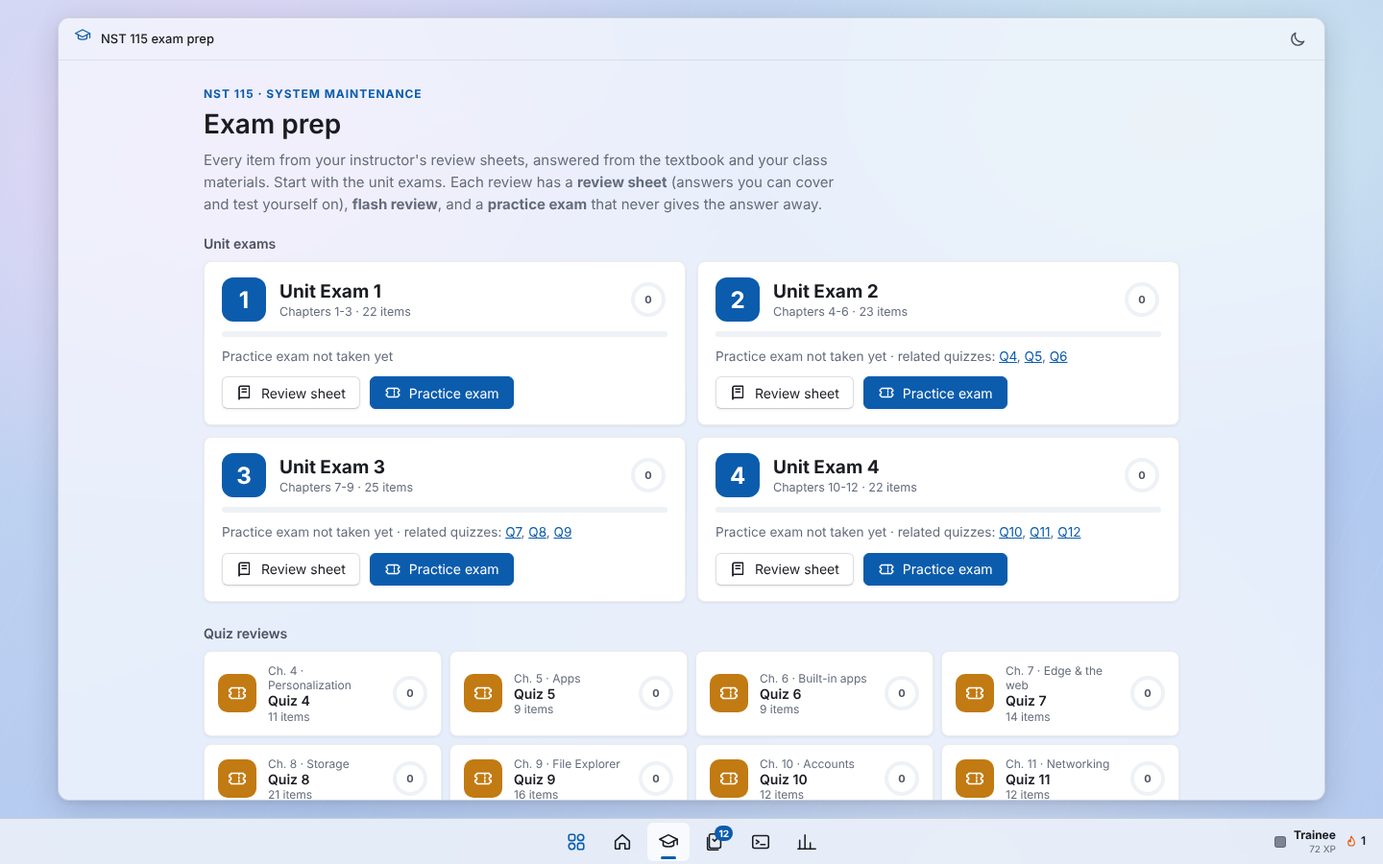
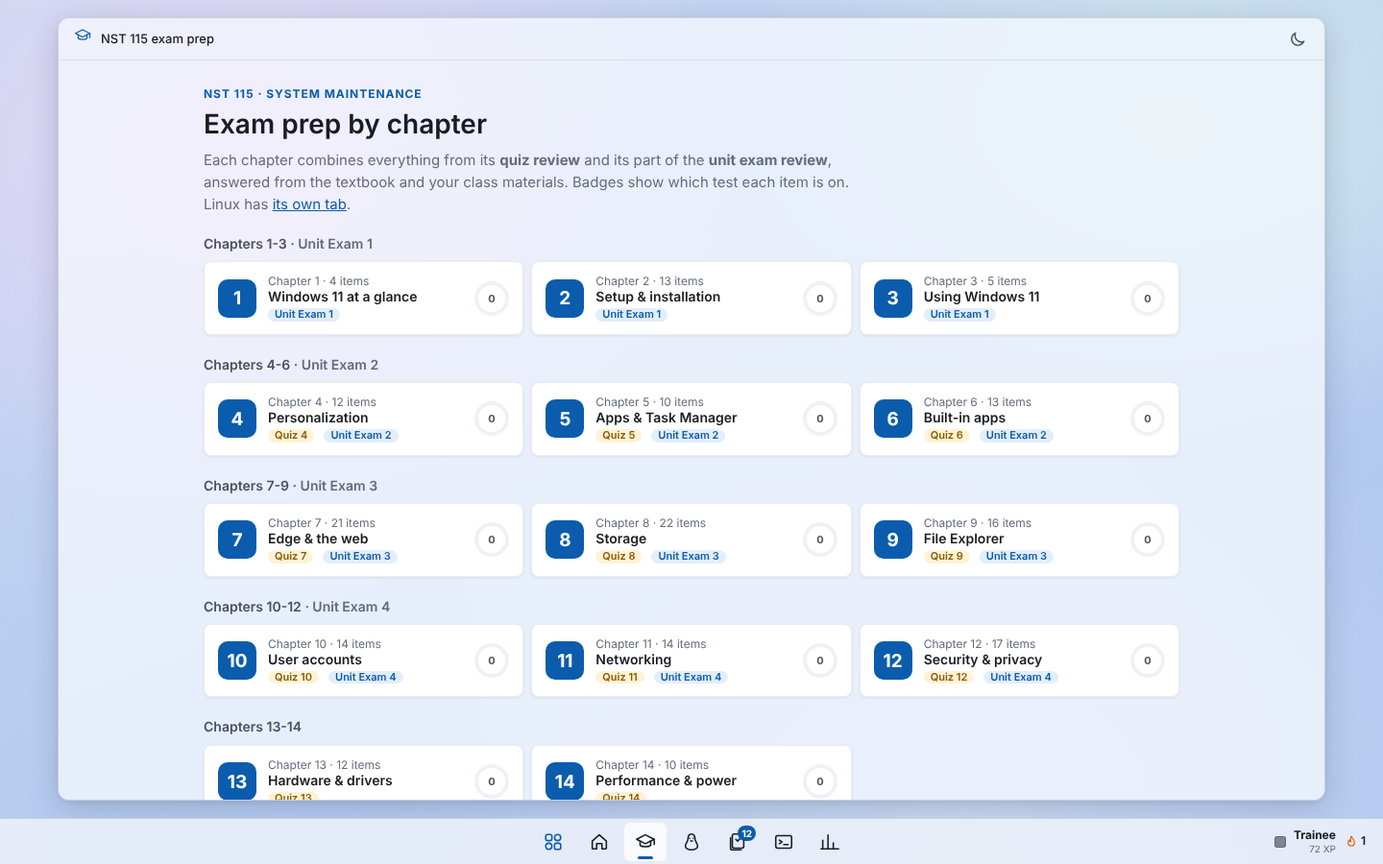
Organize exam prep by chapter; give Linux its own tab
- Exam prep now has one review per chapter (1-14) combining the quiz review
  and that chapter's unit exam items, with Quiz/Unit Exam badges on each item
- Linux unit moved to a separate taskbar tab with its lessons, terminal drills
  and permissions trainer
- Tests check every unit exam item lands in a chapter and Linux stays separate

diff --git a/js/app.js b/js/app.js
@@ -97,7 +97,7 @@
   });
   matchMedia('(prefers-color-scheme: dark)').addEventListener('change', applyTheme);
   $('#startbtn').innerHTML = icon('start');
-  [['home', 'home'], ['course', 'course'], ['review', 'review'], ['rush', 'rush'], ['progress', 'progress']].forEach(([k, ic]) => { const a = $(`[data-nav="${k}"]`); a.insertAdjacentHTML('afterbegin', icon(ic)); a.title = a.getAttribute('aria-label'); });
+  [['home', 'home'], ['course', 'course'], ['linux', 'penguin'], ['review', 'review'], ['rush', 'rush'], ['progress', 'progress']].forEach(([k, ic]) => { const a = $(`[data-nav="${k}"]`); a.insertAdjacentHTML('afterbegin', icon(ic)); a.title = a.getAttribute('aria-label'); });
   $('#startbtn').title = 'Start: all chapters (Ctrl+K)';
 
   function setTitle(text, ic) { $('#wintitle').textContent = text; $('#tbicon').innerHTML = icon(ic || 'logo'); document.title = text === 'Tier One' ? 'Tier One: Windows 11 help desk training' : `${text} · Tier One`; }
@@ -115,7 +115,7 @@
         if ((c.title + ' ' + c.short + ' ' + c.blurb).toLowerCase().includes(q)) hits.push({ c, label: `${c.num === 'A' || c.num === 'B' || c.num === 'C' ? 'Appendix' : 'Chapter'} ${c.num}: ${c.title}`, href: `#/c/${c.id}` });
         c.learn.forEach((s, i) => { if ((s.t + ' ' + s.p.join(' ') + ' ' + (s.key || []).join(' ')).toLowerCase().includes(q)) hits.push({ c, label: s.t, sub: `${c.num} · ${c.short}`, href: `#/c/${c.id}/learn/${i}` }); });
       });
-      COURSE.decks.forEach(d => d.terms.forEach(t => { const x = COURSE.terms[t]; if (!hits.some(h => h.href.endsWith('/' + t)) && (x.t + ' ' + x.d).toLowerCase().includes(q)) hits.push({ c: { part: 'c', icon: 'course' }, label: x.t, sub: `NST 115 · ${d.title}`, href: `#/course/${d.id}/sheet/${t}` }); }));
+      COURSE.decks.forEach(d => d.terms.forEach(t => { const x = COURSE.terms[t]; if (!hits.some(h => h.href.endsWith('/' + t)) && (x.t + ' ' + x.d).toLowerCase().includes(q)) hits.push({ c: { part: 'c', icon: d.kind === 'linux' ? 'penguin' : 'course' }, label: x.t, sub: d.kind === 'linux' ? `Linux · ${d.title}` : `NST 115 · Chapter ${d.num}: ${d.sub}`, href: `${d.kind === 'linux' ? '#/linux' : '#/course'}/${d.id}/sheet/${t}` }); }));
       body = `<h2 class="st-h">Best matches</h2>${hits.length ? `<ul class="st-res">${hits.slice(0, 12).map(h => `<li><a href="${h.href}"><span class="st-ic sm part${h.c.part}">${icon(h.c.icon)}</span><span><b>${esc(h.label)}</b>${h.sub ? `<small>${esc(h.sub)}</small>` : ''}</span></a></li>`).join('')}</ul>` : '<p class="muted st-none">No topics match. Try a tool name like "BitLocker" or "ipconfig".</p>'}`;
     }
     return body;
@@ -148,9 +148,10 @@
     else if (parts[0] === 'rush') rushView();
     else if (parts[0] === 'progress') progressView();
     else if (parts[0] === 'course') courseView(parts[1], parts[2], parts[3]);
+    else if (parts[0] === 'linux') parts[1] ? courseView(parts[1], parts[2], parts[3]) : linuxHome();
     else homeView();
     renderTray();
-    if (!((parts[0] === 'c' || parts[0] === 'course') && parts[3] !== undefined)) app.scrollTop = 0;
+    if (!(['c', 'course', 'linux'].includes(parts[0]) && parts[3] !== undefined)) app.scrollTop = 0;
     app.focus({ preventScroll: true });
   }
   window.addEventListener('hashchange', route);
@@ -186,7 +187,7 @@
           <div class="statrow"><span><b>${S.xp.toLocaleString()}</b><small>XP</small></span><span><b>${streakNow()}</b><small>day streak</small></span><span><b>${r.n}/${CH.length}</b><small>certified</small></span></div>
         </div>
       </section>
-      <a class="coursebanner" href="#/course">${icon('course')}<span><b>NST 115 exam prep</b><small>Unit exam and quiz reviews, Linux unit, terminal and permissions drills</small></span><span class="cb-go">Open ${icon('arrow')}</span></a>
+      <a class="coursebanner" href="#/course">${icon('course')}<span><b>NST 115 exam prep</b><small>Quiz and unit exam reviews combined, chapter by chapter</small></span><span class="cb-go">Open ${icon('arrow')}</span></a>
       <section class="today" aria-label="Today">
         <a class="todo" href="#/review/cards">${icon('cards')}<span><b>${due ? plural(due, 'card') + ' due' : 'No cards due'}</b><small>${due ? 'Spaced review keeps it in long-term memory' : 'Cards join your review once you start a lesson'}</small></span></a>
         <a class="todo" href="#/review/reopened">${icon('ticket')}<span><b>${missed ? plural(missed, 'reopened ticket') : 'No reopened tickets'}</b><small>Anything you miss reopens here until you solve it first try</small></span></a>
@@ -549,6 +550,9 @@
   const deckPct = d => Math.round(d.terms.filter(mastered).length / d.terms.length * 100);
   const srcTag = s => s === 'class' ? 'Class materials' : s === 'gen' ? 'General knowledge: check your notes' : `Book ch. ${s.slice(1)}`;
   const deckById = id => CO.decks.find(d => d.id === id);
+  const base = d => d.kind === 'linux' ? '#/linux' : '#/course';
+  const dIcon = d => d.kind === 'linux' ? 'penguin' : 'course';
+  const onChips = id => (CO.on[id] || []).map(l => `<span class="onchip ${/Unit/.test(l) ? 'unit' : ''}">${esc(l)}</span>`).join('');
   const DMODES = [['sheet', 'Review sheet', 'learn'], ['flash', 'Flash review', 'cards'], ['exam', 'Practice exam', 'ticket']];
   function courseView(id, mode, arg) {
     if (id === 'terminal') return terminalView();
@@ -556,43 +560,47 @@
     const d = deckById(id);
     if (!d) return courseHome();
     if (!DMODES.some(m => m[0] === mode)) mode = 'sheet';
-    setTitle(`NST 115 · ${d.title}`, 'course');
+    setTitle(`${d.kind === 'linux' ? 'Linux' : 'NST 115'} · ${d.title}`, dIcon(d));
     const best = cS().best[d.id];
     app.innerHTML = `<div class="chap">
       <nav class="cnav" aria-label="Review sections">
-        <div class="cnav-head"><span class="cnav-ic ${d.kind}">${icon(d.kind === 'linux' ? 'penguin' : d.kind === 'unit' ? 'cert' : 'ticket')}</span><div><small>${d.kind === 'unit' ? 'Unit exam review' : d.kind === 'quiz' ? 'Quiz review' : 'Linux unit'}</small><b>${esc(d.title)}: ${esc(d.sub)}</b></div></div>
-        <ul class="modes">${DMODES.map(m => `<li><a href="#/course/${d.id}/${m[0]}" class="${m[0] === mode ? 'on' : ''}" ${m[0] === mode ? 'aria-current="page"' : ''}>${icon(m[2])}<span>${m[1]}</span><em>${m[0] === 'sheet' ? `${deckPct(d)}%` : m[0] === 'exam' && best !== undefined ? `best ${best}%` : ''}</em></a></li>`).join('')}
-          ${d.perms ? `<li><a href="#/course/perms">${icon('lock')}<span>Permissions trainer</span></a></li>` : ''}${d.kind === 'linux' ? `<li><a href="#/course/terminal">${icon('term')}<span>Terminal drills</span></a></li>` : ''}</ul>
-        ${mode === 'sheet' ? `<ol class="secs">${d.terms.map(t => `<li><a href="#/course/${d.id}/sheet/${t}" class="${mastered(t) ? 'done' : ''}">${esc(CO.terms[t].t)}</a></li>`).join('')}</ol>` : ''}
-        <div class="cnav-foot"><a href="#/course">${icon('back')}All reviews</a></div>
+        <div class="cnav-head"><span class="cnav-ic ${d.kind}">${d.kind === 'chapter' ? `<span class="cnum">${d.num}</span>` : icon('penguin')}</span><div><small>${d.kind === 'chapter' ? esc((d.tests || []).join(' + ')) : 'Linux unit'}</small><b>${esc(d.kind === 'chapter' ? d.sub : `${d.title}: ${d.sub}`)}</b></div></div>
+        <ul class="modes">${DMODES.map(m => `<li><a href="${base(d)}/${d.id}/${m[0]}" class="${m[0] === mode ? 'on' : ''}" ${m[0] === mode ? 'aria-current="page"' : ''}>${icon(m[2])}<span>${m[1]}</span><em>${m[0] === 'sheet' ? `${deckPct(d)}%` : m[0] === 'exam' && best !== undefined ? `best ${best}%` : ''}</em></a></li>`).join('')}
+          ${d.perms ? `<li><a href="#/linux/perms">${icon('lock')}<span>Permissions trainer</span></a></li>` : ''}${d.kind === 'linux' ? `<li><a href="#/linux/terminal">${icon('term')}<span>Terminal drills</span></a></li>` : ''}</ul>
+        ${mode === 'sheet' ? `<ol class="secs">${d.terms.map(t => `<li><a href="${base(d)}/${d.id}/sheet/${t}" class="${mastered(t) ? 'done' : ''}">${esc(CO.terms[t].t)}</a></li>`).join('')}</ol>` : ''}
+        <div class="cnav-foot"><a href="${base(d)}">${icon('back')}${d.kind === 'linux' ? 'Linux unit' : 'All chapters'}</a></div>
       </nav><div class="cbody" id="cbody"></div></div>`;
     const body = $('#cbody');
     ({ sheet: sheetMode, flash: flashMode, exam: cExamMode })[mode](d, body, arg);
   }
   function courseHome() {
     setTitle('NST 115 exam prep', 'course');
-    const card = d => { const p = deckPct(d), b = cS().best[d.id]; return `<a class="tile deck ${d.kind}" href="#/course/${d.id}"><span class="tile-ic ${d.kind}">${icon(d.kind === 'linux' ? 'penguin' : d.kind === 'unit' ? 'cert' : 'ticket')}</span><span class="tile-txt"><small>${esc(d.sub)}</small><b>${esc(d.title)}</b><small>${d.terms.length} items${b !== undefined ? ` · exam best ${b}%` : ''}</small></span>${ring(p, `${d.title}: ${p}% of items mastered`)}</a>`; };
-    const units = CO.decks.filter(d => d.kind === 'unit');
+    const units = [1, 2, 3, 4];
     app.innerHTML = `<div class="pad">
-      <div class="mode-head"><p class="eyebrow">NST 115 · System Maintenance</p><h2>Exam prep</h2><p class="muted">Every item from your instructor's review sheets, answered from the textbook and your class materials. Start with the unit exams. Each review has a <b>review sheet</b> (answers you can cover and test yourself on), <b>flash review</b>, and a <b>practice exam</b> that never gives the answer away.</p></div>
-      <h3 class="part-h">Unit exams</h3>
-      <div class="units">${units.map(d => { const p = deckPct(d), b = cS().best[d.id], qs = CO.decks.filter(q => q.kind === 'quiz' && q.unit === d.unit); return `<div class="unitcard card"><div class="uc-top"><span class="uc-num">${d.unit}</span><div><b>${esc(d.title)}</b><small>${esc(d.sub)} · ${d.terms.length} items</small></div>${ring(p, `${p}% mastered`)}</div>
-        <div class="uc-bar"><i style-w="${p}"></i></div>
-        <p class="muted small">${b !== undefined ? `Practice exam best: <b>${b}%</b>` : 'Practice exam not taken yet'}${qs.length ? ` · related quizzes: ${qs.map(q => `<a href="#/course/${q.id}">${esc(q.title.replace('Quiz ', 'Q'))}</a>`).join(', ')}` : ''}</p>
-        <div class="row"><a class="btn" href="#/course/${d.id}/sheet">${icon('learn')}Review sheet</a><a class="btn primary" href="#/course/${d.id}/exam">${icon('ticket')}Practice exam</a></div></div>`; }).join('')}</div>
-      <h3 class="part-h">Quiz reviews</h3><div class="tiles">${CO.decks.filter(d => d.kind === 'quiz').map(card).join('')}</div>
-      <h3 class="part-h">Linux unit</h3><div class="tiles">${CO.decks.filter(d => d.kind === 'linux').map(card).join('')}
-        <a class="tile deck" href="#/course/terminal"><span class="tile-ic linux">${icon('term')}</span><span class="tile-txt"><small>Type real commands</small><b>Terminal drills</b><small>${CO.terminal.length} tasks</small></span></a>
-        <a class="tile deck" href="#/course/perms"><span class="tile-ic linux">${icon('lock')}</span><span class="tile-txt"><small>rwx ⇄ 755</small><b>Permissions trainer</b><small>Endless practice</small></span></a></div>
-      <p class="fine">Answers tagged <b>Book ch.</b> come from <i>Windows 11 Inside Out</i>; <b>Class materials</b> from your slides and handouts; <b>General knowledge</b> items aren't covered in either, so compare them with your notes. Progress is saved in this browser.</p></div>`;
-    $$('.uc-bar i').forEach(i => i.style.width = i.getAttribute('style-w') + '%');
+      <div class="mode-head"><p class="eyebrow">NST 115 · System Maintenance</p><h2>Exam prep by chapter</h2><p class="muted">Each chapter combines everything from its <b>quiz review</b> and its part of the <b>unit exam review</b>, answered from the textbook and your class materials. Badges show which test each item is on. Linux has <a href="#/linux">its own tab</a>.</p></div>
+      ${units.map(u => { const ds = CO.decks.filter(d => d.kind === 'chapter' && d.unit === u); return `<h3 class="part-h">Chapters ${ds[0].num}-${ds[ds.length - 1].num} <span class="muted">· Unit Exam ${u}</span></h3><div class="tiles chtiles">${ds.map(chTile).join('')}</div>`; }).join('')}
+      <h3 class="part-h">Chapters 13-14</h3><div class="tiles chtiles">${CO.decks.filter(d => d.kind === 'chapter' && !d.unit).map(chTile).join('')}</div>
+      <p class="fine">Answers tagged <b>Book ch.</b> come from <i>Windows 11 Inside Out</i>; <b>Class materials</b> from your slides, handouts, the assigned article and video; <b>General knowledge</b> items aren't covered in either, so compare them with your notes. Progress is saved in this browser.</p></div>`;
+  }
+  function chTile(d) {
+    const p = deckPct(d), b = cS().best[d.id];
+    return `<a class="tile deck" href="#/course/${d.id}"><span class="tile-ic chapter"><span class="cnum">${d.num}</span></span><span class="tile-txt"><small>Chapter ${d.num} · ${d.terms.length} items</small><b>${esc(d.sub)}</b><span class="tchips">${(d.tests || []).map(t => `<span class="onchip ${/Unit/.test(t) ? 'unit' : ''}">${esc(t)}</span>`).join('')}</span>${b !== undefined ? `<small>Practice exam best ${b}%</small>` : ''}</span>${ring(p, `${d.sub}: ${p}% of items mastered`)}</a>`;
+  }
+  function linuxHome() {
+    setTitle('Linux unit', 'penguin');
+    const card = d => { const p = deckPct(d); return `<a class="tile deck" href="#/linux/${d.id}"><span class="tile-ic linux">${icon('penguin')}</span><span class="tile-txt"><small>${esc(d.sub)}</small><b>${esc(d.title)}</b><small>${d.terms.length} items${cS().best[d.id] !== undefined ? ` · exam best ${cS().best[d.id]}%` : ''}</small></span>${ring(p, `${d.title}: ${p}% mastered`)}</a>`; };
+    app.innerHTML = `<div class="pad"><div class="mode-head"><p class="eyebrow">NST 115 · Linux</p><h2>Linux unit</h2><p class="muted">The Linux days, the top 25 commands, and hands-on drills. Each set has a review sheet, flash review and practice exam.</p></div>
+      <h3 class="part-h">Lessons</h3><div class="tiles">${CO.decks.filter(d => d.kind === 'linux').map(card).join('')}</div>
+      <h3 class="part-h">Hands-on practice</h3><div class="tiles">
+        <a class="tile deck" href="#/linux/terminal"><span class="tile-ic linux">${icon('term')}</span><span class="tile-txt"><small>Type real commands</small><b>Terminal drills</b><small>${CO.terminal.length} tasks</small></span></a>
+        <a class="tile deck" href="#/linux/perms"><span class="tile-ic linux">${icon('lock')}</span><span class="tile-txt"><small>rwx ⇄ 755</small><b>Permissions trainer</b><small>Endless practice</small></span></a></div></div>`;
   }
   function sheetMode(d, body, arg) {
-    body.innerHTML = `<div class="pad"><div class="mode-head"><h2>${esc(d.title)} review sheet</h2><p class="muted">Items in your instructor's order. Turn on <b>Recall mode</b> to hide the answers, say each one from memory, reveal, then mark it.</p></div>
+    body.innerHTML = `<div class="pad"><div class="mode-head"><h2>${esc(d.kind === 'chapter' ? `Chapter ${d.num}: ${d.sub}` : d.title)}</h2><p class="muted">${d.kind === 'chapter' ? 'Quiz items first, then the rest of the unit exam items for this chapter.' : 'Items in your instructor\'s order.'} Turn on <b>Recall mode</b> to hide the answers, say each one from memory, reveal, then mark it.</p></div>
       ${d.note ? `<div class="think">${icon('bulb')}<p><b>Heads up:</b> ${esc(d.note)}</p></div>` : ''}
       <div class="recall-bar"><label class="switch"><input type="checkbox" id="recall"><span></span>Recall mode</label><small class="muted">${d.terms.filter(mastered).length}/${d.terms.length} marked "Got it"</small></div>
-      ${d.terms.map((id, i) => { const t = CO.terms[id]; return `<article class="sec card item" id="t-${id}" tabindex="-1"><h2><span class="secnum">${i + 1}</span>${esc(t.t)}</h2><div class="ans prose">${paras(t.a)}</div><button type="button" class="reveal btn ghost" data-act="show">${icon('eye')}Show answer</button><div class="sec-foot"><span class="src">${esc(srcTag(t.s))}</span><span class="row"><button class="btn mini ${(cS().m[id] || 0) === 1 ? 'on-bad' : ''}" type="button" data-act="mark" data-id="${id}" data-v="1">Again</button><button class="btn mini ${mastered(id) ? 'on-good' : ''}" type="button" data-act="mark" data-id="${id}" data-v="2">${icon('check')}Got it</button></span></div></article>`; }).join('')}
-      <div class="nextbar"><a class="btn primary" href="#/course/${d.id}/exam">${icon('ticket')}Take the practice exam</a></div></div>`;
+      ${d.terms.map((id, i) => { const t = CO.terms[id]; return `<article class="sec card item" id="t-${id}" tabindex="-1"><h2><span class="secnum">${i + 1}</span>${esc(t.t)}</h2><div class="ans prose">${paras(t.a)}</div><button type="button" class="reveal btn ghost" data-act="show">${icon('eye')}Show answer</button><div class="sec-foot"><span class="src">${onChips(id)}${esc(srcTag(t.s))}</span><span class="row"><button class="btn mini ${(cS().m[id] || 0) === 1 ? 'on-bad' : ''}" type="button" data-act="mark" data-id="${id}" data-v="1">Again</button><button class="btn mini ${mastered(id) ? 'on-good' : ''}" type="button" data-act="mark" data-id="${id}" data-v="2">${icon('check')}Got it</button></span></div></article>`; }).join('')}
+      <div class="nextbar"><a class="btn primary" href="${base(d)}/${d.id}/exam">${icon('ticket')}Take the practice exam</a></div></div>`;
     const rc = $('#recall');
     rc.addEventListener('change', () => { body.classList.toggle('recall', rc.checked); $$('.item', body).forEach(x => x.classList.remove('shown')); });
     body.onclick = e => {
@@ -613,7 +621,7 @@
     let q = shuffle(d.terms.filter(t => !mastered(t))); if (!q.length) q = shuffle(d.terms);
     let flipped = false, n = 0;
     const draw = () => {
-      if (!q.length) { body.innerHTML = `<div class="pad"><div class="empty card">${icon('check')}<h3>Round done: ${n} reviewed</h3><p class="muted">${d.terms.filter(mastered).length}/${d.terms.length} items marked "Got it".</p><div class="row"><a class="btn" href="#/course/${d.id}/flash" data-act="again">Go again</a><a class="btn primary" href="#/course/${d.id}/exam">${icon('ticket')}Practice exam</a></div></div></div>`; return; }
+      if (!q.length) { body.innerHTML = `<div class="pad"><div class="empty card">${icon('check')}<h3>Round done: ${n} reviewed</h3><p class="muted">${d.terms.filter(mastered).length}/${d.terms.length} items marked "Got it".</p><div class="row"><a class="btn" href="${base(d)}/${d.id}/flash" data-act="again">Go again</a><a class="btn primary" href="${base(d)}/${d.id}/exam">${icon('ticket')}Practice exam</a></div></div></div>`; return; }
       const t = CO.terms[q[0]]; flipped = false;
       body.innerHTML = `<div class="pad"><div class="mode-head"><h2>Flash review</h2><p class="muted">${plural(q.length, 'item')} left. Explain it out loud, then flip.</p></div>
         <div class="flash" id="flash"><div class="face front"><small>Review item</small><p>${esc(t.t)}</p></div><div class="face back prose" hidden><small>Answer</small>${paras(t.a)}</div></div>
@@ -626,9 +634,9 @@
     draw();
   }
   function cExamMode(d, body) {
-    const pool = d.terms.length >= 4 ? d.terms : CO.decks.filter(x => x.unit === d.unit).flatMap(x => x.terms);
-    const total = Math.min(d.terms.length, d.kind === 'unit' ? 25 : 15);
-    const intro = () => { body.innerHTML = `<div class="pad"><div class="mode-head"><h2>Practice exam</h2></div><div class="card belt-intro">${seal((cS().best[d.id] || 0) >= 80)}<div><p><b>${total} questions</b> drawn from the ${esc(d.title)} review sheet. Some show a definition and ask for the item, others ask what an item means.</p><p class="muted">A wrong pick tells you what that choice actually is, so you can try again. Only first-try answers count toward your score.${cS().best[d.id] !== undefined ? ` Best so far: ${cS().best[d.id]}%.` : ''}</p><button class="btn primary" type="button" id="cgo">${icon('ticket')}Start</button></div></div></div>`; $('#cgo').onclick = start; };
+    const pool = d.terms.length >= 6 ? d.terms : CO.decks.filter(x => x.kind === d.kind && (x.unit === d.unit || !d.unit)).flatMap(x => x.terms);
+    const total = Math.min(d.terms.length, 20);
+    const intro = () => { body.innerHTML = `<div class="pad"><div class="mode-head"><h2>Practice exam</h2></div><div class="card belt-intro">${seal((cS().best[d.id] || 0) >= 80)}<div><p><b>${total} questions</b> drawn from ${esc(d.kind === 'chapter' ? `Chapter ${d.num}` : d.title)}. Some show a definition and ask for the item, others ask what an item means.</p><p class="muted">A wrong pick tells you what that choice actually is, so you can try again. Only first-try answers count toward your score.${cS().best[d.id] !== undefined ? ` Best so far: ${cS().best[d.id]}%.` : ''}</p><button class="btn primary" type="button" id="cgo">${icon('ticket')}Start</button></div></div></div>`; $('#cgo').onclick = start; };
     function start() {
       const qs = shuffle(d.terms).slice(0, total).map(id => {
         const others = shuffle(Array.from(new Set(pool)).filter(x => x !== id && CO.terms[x].d !== CO.terms[id].d)).slice(0, 3);
@@ -665,8 +673,8 @@
         view = null; const score = Math.round(firstRight / qs.length * 100), prev = cS().best[d.id];
         cS().best[d.id] = Math.max(prev || 0, score); save(); addXP(Math.round(score / 10) + (prev === undefined || score > prev ? 5 : 0), score > (prev || 0) ? 'new best' : '');
         body.innerHTML = `<div class="pad"><div class="mode-head"><h2>Results</h2></div><div class="card result ${score >= 80 ? 'pass' : 'fail'}">${seal(score >= 80, score >= 80 ? 'stampin' : '')}<div><p class="score">${score}%</p><p><b>${score >= 80 ? 'Exam-ready on this review.' : 'Keep studying, you\'re getting there.'}</b></p><p class="muted">${firstRight} of ${qs.length} right on the first try.</p></div></div>
-          ${missed.length ? `<div class="card missed"><h3>Restudy these</h3><ul>${missed.map(id => `<li><a href="#/course/${d.id}/sheet/${id}">${icon('learn')}${esc(CO.terms[id].t)}</a></li>`).join('')}</ul></div>` : ''}
-          <div class="row"><button class="btn" type="button" id="cagain">Retake</button><a class="btn primary" href="#/course">All reviews</a></div></div>`;
+          ${missed.length ? `<div class="card missed"><h3>Restudy these</h3><ul>${missed.map(id => `<li><a href="${base(d)}/${d.id}/sheet/${id}">${icon('learn')}${esc(CO.terms[id].t)}</a></li>`).join('')}</ul></div>` : ''}
+          <div class="row"><button class="btn" type="button" id="cagain">Retake</button><a class="btn primary" href="${base(d)}">${d.kind === 'linux' ? 'Linux unit' : 'All chapters'}</a></div></div>`;
         $('#cagain').onclick = start;
       };
       draw();
@@ -674,11 +682,11 @@
     intro();
   }
   function terminalView() {
-    setTitle('NST 115 · Terminal drills', 'term');
+    setTitle('Linux · Terminal drills', 'term');
     const items = CO.terminal; let order = shuffle(items.map((_, i) => i)), pos = 0, hints = 0, wrong = 0, solved = 0;
     const nrm = s => s.replace(/[‘’]/g, "'").replace(/[“”]/g, '"').replace(/\s+/g, ' ').replace(/\s*\|\s*/g, ' | ').trim();
     const draw = () => {
-      if (pos >= order.length) { app.innerHTML = `<div class="pad"><div class="empty card">${icon('check')}<h3>${solved}/${items.length} solved</h3><p class="muted">Run through them again until every one is automatic.</p><div class="row"><a class="btn primary" href="#/course/terminal" id="tagain">Again</a><a class="btn" href="#/course">All reviews</a></div></div></div>`; $('#tagain').onclick = e => { e.preventDefault(); terminalView(); }; return; }
+      if (pos >= order.length) { app.innerHTML = `<div class="pad"><div class="empty card">${icon('check')}<h3>${solved}/${items.length} solved</h3><p class="muted">Run through them again until every one is automatic.</p><div class="row"><a class="btn primary" href="#/linux/terminal" id="tagain">Again</a><a class="btn" href="#/linux">Linux unit</a></div></div></div>`; $('#tagain').onclick = e => { e.preventDefault(); terminalView(); }; return; }
       const r = items[order[pos]]; hints = 0; wrong = 0;
       app.innerHTML = `<div class="pad"><div class="mode-head"><h2>Terminal drills</h2><p class="muted">Type the Linux command. <b>Case matters</b>, just like in a real terminal. Hints narrow it down; no answers given.</p></div><div class="dots">${order.map((_, k) => `<i class="${k < pos ? 'on' : k === pos ? 'cur' : ''}"></i>`).join('')}</div>
         <div class="term card"><div class="term-task">${esc(r[0])}</div><form class="term-line" id="tform" autocomplete="off"><label for="tin" class="prompt">student@ubuntu:~$</label><input id="tin" type="text" spellcheck="false" autocapitalize="off" autocorrect="off"></form><div class="term-out" id="tout" aria-live="polite"></div></div>
@@ -702,7 +710,7 @@
     draw();
   }
   function permsView() {
-    setTitle('NST 115 · Permissions trainer', 'lock');
+    setTitle('Linux · Permissions trainer', 'lock');
     const sym = n => ['r', 'w', 'x'].map((c, i) => (n & (4 >> i)) ? c : '-').join('');
     let streak = 0, hints = 0;
     const draw = () => {

diff --git a/js/course.js b/js/course.js
@@ -267,23 +267,52 @@ LXC.forEach(([c, d]) => T('cmd_' + c.replace(/\W/g, '_'), c, d, [d], 'class'));
 T('lx_etc', '/etc/passwd and /etc/group', 'Files where Linux stores user accounts (/etc/passwd) and groups (/etc/group).', ['**/etc/passwd** lists **user accounts**; **/etc/group** lists **groups**. They\'re **files**, not folders: view with `cat`, `less` or `vim` (not `cd`). Your new user appears at the bottom.'], 'class');
 T('lx_case', 'Case sensitivity', 'Linux treats ls and LS (and File.txt and file.txt) as different.', ['Linux is **case-sensitive**: `ls` ≠ `LS`, and `Batman.txt` ≠ `batman.txt`. Type commands exactly.'], 'class');
 
-/* ---------- Decks (review sheets) ---------- */
+/* ---------- Windows reviews, one per chapter ----------
+   Each chapter combines its quiz review and the unit exam items for that chapter.
+   SHEETS records which review sheet(s) each item came from, so the review shows "Quiz 8 · Unit Exam 3" badges. */
+const SHEETS = {
+  ue1: ['Unit Exam 1', ['pchc', 'cortana', 'parts4', 'fexp', 'upg3', 'edge', 'minreq', 'tmpfold', 'peek', 'snapshot', 'taskview', 'jumplist', 'vdi', 'vmadv', 'wu', 'oem', 'snap', 'iso', 'dualboot', 'smode', 'biosuefi', 'accttypes']],
+  ue2: ['Unit Exam 2', ['affinity', 'access', 'focus', 'sync', 'themes', 'fit', 'slideshow', 'spotlight', 'tmkey', 'autoplay', 'store3', 'tm', 'teamsdef', 'provapps', 'instapps', 'backcompat', 'startup', 'theme3p', 'dark', 'quickassist', 'uacwhy', 'cattlist', 'provcat']],
+  ue3: ['Unit Exam 3', ['syspart', 'basic', 'primary', 'optimize', 'diskmgmt', 'diskpart', 'gpt', 'mbr', 'dynamic', 'ntfs', 'errchk', 'sspaces', 'simple', 'ssd', 'details', 'quickacc', 'indexing', 'libraries', 'navpane', 'boolean', 'grep', 'osi', 'dom', 'cookie', 'edge']],
+  ue4: ['Unit Exam 4', ['permissions', 'tpm', 'compmgmt', 'uacwarn', 'wpa', 'wifisec', 'featupd', 'aslr', 'hello', 'uac', 'bitlocker', 'dep', 'ip4', 'defaccts', 'elam', 'sid', 'secintel', 'smartscreen', 'measured', 'troublestrat', 'polp', 'ipmanual']],
+  q4: ['Quiz 4', ['persimp', 'sync', 'slideshow', 'spotlight', 'wallfold', 'theme3p', 'focus', 'access', 'dark', 'lock', 'fit']],
+  q5: ['Quiz 5', ['compat', 'apptypes', 'store3', 'uacwhy', 'tm', 'autoplay', 'backcompat', 'tmkey', 'startup']],
+  q6: ['Quiz 6', ['sysapps', 'provapps', 'instapps', 'connexp', 'snip', 'provcat', 'quickassist', 'teamsnav', 'tv_teams', 'tv_meet', 'articles']],
+  q7: ['Quiz 7', ['dns', 'tcp', 'udp', 'http', 'cookie', 'rtree', 'cssom', 'dom', 'compos', 'parsing', 'painting', 'osi', 'render', 'rank', 'art_market', 'art_pwa', 'art_privacy', 'art_speed', 'art_tools', 'art_ie']],
+  q8: ['Quiz 8', ['basic', 'dynamic', 'simple', 'mounted', 'errchk', 'gpt', 'mbr', 'ntfs', 'cdfs', 'fat32', 'exfat', 'optimize', 'sspaces', 'diskmgmt', 'diskpart', 'onedrive', 'location', 'primary', 'syspart', 'msr', 'recovpart']],
+  q9: ['Quiz 9', ['navpane', 'cmdbar', 'addrbar', 'searchbar', 'details', 'quickacc', 'libraries', 'winfold', 'recycle', 'progfiles', 'searches', 'indexing', 'grep', 'metadata', 'boolean', 'defprof']],
+  q10: ['Quiz 10', ['accttypes', 'defacctfold', 'compmgmt', 'sid', 'uac', 'biosvc', 'hiddentmpl', 'appdata', 'kiosk', 'polp', 'pwbest', 'privperm']],
+  q11: ['Quiz 11', ['rdp', 'wpa', 'advshare', 'sharewiz', 'netdisc', 'netprof', 'ip4', 'wifisec', 'forget', 'netcmds', 'staticinfo', 'trouble8']],
+  q12: ['Quiz 12', ['malware', 'updtypes', 'wumenu', 'aslr', 'bitlocker', 'dep', 'elam', 'measured', 'uefi', 'smartscreen', 'tpm', 'hello', 'consent', 'creds']],
+  q13: ['Quiz 13', ['filerepo', 'inf', 'kmode', 'drvstore', 'devmgr', 'mmc', 'proptabs', 'verifier', 'bthist', 'pairing', 'rollback', 'signed']],
+  q14: ['Quiz 14', ['perf5', 'sysinfo', 'tmtabs', 'systeminfo', 'wmic', 'syspage', 'powermgmt', 'appinfo', 'svcwarn', 'tmdev']],
+};
+// Chapter each unit-exam-only item belongs to (quiz items already sit in their quiz's chapter)
+const UNIT_CH = {
+  pchc: 2, cortana: 1, parts4: 2, fexp: 3, upg3: 2, edge: [1, 7], minreq: 2, tmpfold: 2, peek: 3, snapshot: 2, taskview: 3, jumplist: 3, vdi: 2, vmadv: 2,
+  wu: 1, oem: 2, snap: 3, iso: 2, dualboot: 2, smode: 1, biosuefi: 2, accttypes: [2, 10],
+  affinity: 5, themes: 4, teamsdef: 6, cattlist: 6,
+  ssd: 8, osi: 7, dom: 7, cookie: 7,
+  permissions: 10, uacwarn: 12, featupd: 12, defaccts: 10, secintel: 12, troublestrat: 11, ipmanual: 11, uac: 10, compmgmt: 10, sid: 10, polp: 10
+};
+const CH_NAMES = { 1: 'Windows 11 at a glance', 2: 'Setup & installation', 3: 'Using Windows 11', 4: 'Personalization', 5: 'Apps & Task Manager', 6: 'Built-in apps',
+  7: 'Edge & the web', 8: 'Storage', 9: 'File Explorer', 10: 'User accounts', 11: 'Networking', 12: 'Security & privacy', 13: 'Hardware & drivers', 14: 'Performance & power' };
+const CH_NOTES = { 6: 'Four test questions cover Teams navigation and icons (from the class video), and at least two come from the assigned articles.' };
+COURSE.on = {};
+Object.entries(SHEETS).forEach(([k, [label, ids]]) => ids.forEach(id => (COURSE.on[id] = COURSE.on[id] || []).push(label)));
+Object.keys(CH_NAMES).forEach(n => {
+  n = +n;
+  const quiz = SHEETS['q' + n] ? SHEETS['q' + n][1] : [];
+  const unit = n <= 12 ? SHEETS['ue' + Math.ceil(n / 3)][1].filter(id => { const c = UNIT_CH[id]; return quiz.includes(id) ? false : Array.isArray(c) ? c.includes(n) : c === n; }) : [];
+  const unitNum = n <= 12 ? Math.ceil(n / 3) : 0;
+  COURSE.decks.push({ id: 'ch' + n, kind: 'chapter', num: n, title: 'Chapter ' + n, sub: CH_NAMES[n], unit: unitNum, terms: quiz.concat(unit),
+    tests: [quiz.length ? 'Quiz ' + n : null, unitNum ? 'Unit Exam ' + unitNum : null].filter(Boolean), note: CH_NOTES[n] });
+});
+// Any unit-exam item not placed in a chapter is a content bug; surface it in the console and tests.
+COURSE.unplaced = ['ue1', 'ue2', 'ue3', 'ue4'].flatMap(k => SHEETS[k][1]).filter(id => !COURSE.decks.some(d => d.kind === 'chapter' && d.terms.includes(id)));
+
+/* ---------- Linux unit (its own section) ---------- */
 const D = (id, kind, title, sub, unit, terms, extra) => COURSE.decks.push(Object.assign({ id, kind, title, sub, unit, terms }, extra || {}));
-D('ue1', 'unit', 'Unit Exam 1', 'Chapters 1-3', 1, ['pchc', 'cortana', 'parts4', 'fexp', 'upg3', 'edge', 'minreq', 'tmpfold', 'peek', 'snapshot', 'taskview', 'jumplist', 'vdi', 'vmadv', 'wu', 'oem', 'snap', 'iso', 'dualboot', 'smode', 'biosuefi', 'accttypes']);
-D('ue2', 'unit', 'Unit Exam 2', 'Chapters 4-6', 2, ['affinity', 'access', 'focus', 'sync', 'themes', 'fit', 'slideshow', 'spotlight', 'tmkey', 'autoplay', 'store3', 'tm', 'teamsdef', 'provapps', 'instapps', 'backcompat', 'startup', 'theme3p', 'dark', 'quickassist', 'uacwhy', 'cattlist', 'provcat']);
-D('ue3', 'unit', 'Unit Exam 3', 'Chapters 7-9', 3, ['syspart', 'basic', 'primary', 'optimize', 'diskmgmt', 'diskpart', 'gpt', 'mbr', 'dynamic', 'ntfs', 'errchk', 'sspaces', 'simple', 'ssd', 'details', 'quickacc', 'indexing', 'libraries', 'navpane', 'boolean', 'grep', 'osi', 'dom', 'cookie', 'edge']);
-D('ue4', 'unit', 'Unit Exam 4', 'Chapters 10-12', 4, ['permissions', 'tpm', 'compmgmt', 'uacwarn', 'wpa', 'wifisec', 'featupd', 'aslr', 'hello', 'uac', 'bitlocker', 'dep', 'ip4', 'defaccts', 'elam', 'sid', 'secintel', 'smartscreen', 'measured', 'troublestrat', 'polp', 'ipmanual']);
-D('q4', 'quiz', 'Quiz 4', 'Ch. 4 · Personalization', 2, ['persimp', 'sync', 'slideshow', 'spotlight', 'wallfold', 'theme3p', 'focus', 'access', 'dark', 'lock', 'fit']);
-D('q5', 'quiz', 'Quiz 5', 'Ch. 5 · Apps', 2, ['compat', 'apptypes', 'store3', 'uacwhy', 'tm', 'autoplay', 'backcompat', 'tmkey', 'startup']);
-D('q6', 'quiz', 'Quiz 6', 'Ch. 6 · Built-in apps', 2, ['sysapps', 'provapps', 'instapps', 'connexp', 'snip', 'provcat', 'quickassist', 'teamsnav', 'tv_teams', 'tv_meet', 'articles'], { note: 'Four test questions cover Teams navigation and icons (from the class video), and at least two come from the assigned articles.' });
-D('q7', 'quiz', 'Quiz 7', 'Ch. 7 · Edge & the web', 3, ['dns', 'tcp', 'udp', 'http', 'cookie', 'rtree', 'cssom', 'dom', 'compos', 'parsing', 'painting', 'osi', 'render', 'rank', 'art_market', 'art_pwa', 'art_privacy', 'art_speed', 'art_tools', 'art_ie']);
-D('q8', 'quiz', 'Quiz 8', 'Ch. 8 · Storage', 3, ['basic', 'dynamic', 'simple', 'mounted', 'errchk', 'gpt', 'mbr', 'ntfs', 'cdfs', 'fat32', 'exfat', 'optimize', 'sspaces', 'diskmgmt', 'diskpart', 'onedrive', 'location', 'primary', 'syspart', 'msr', 'recovpart']);
-D('q9', 'quiz', 'Quiz 9', 'Ch. 9 · File Explorer', 3, ['navpane', 'cmdbar', 'addrbar', 'searchbar', 'details', 'quickacc', 'libraries', 'winfold', 'recycle', 'progfiles', 'searches', 'indexing', 'grep', 'metadata', 'boolean', 'defprof']);
-D('q10', 'quiz', 'Quiz 10', 'Ch. 10 · Accounts', 4, ['accttypes', 'defacctfold', 'compmgmt', 'sid', 'uac', 'biosvc', 'hiddentmpl', 'appdata', 'kiosk', 'polp', 'pwbest', 'privperm']);
-D('q11', 'quiz', 'Quiz 11', 'Ch. 11 · Networking', 4, ['rdp', 'wpa', 'advshare', 'sharewiz', 'netdisc', 'netprof', 'ip4', 'wifisec', 'forget', 'netcmds', 'staticinfo', 'trouble8']);
-D('q12', 'quiz', 'Quiz 12', 'Ch. 12 · Security', 4, ['malware', 'updtypes', 'wumenu', 'aslr', 'bitlocker', 'dep', 'elam', 'measured', 'uefi', 'smartscreen', 'tpm', 'hello', 'consent', 'creds']);
-D('q13', 'quiz', 'Quiz 13', 'Ch. 13 · Hardware', 0, ['filerepo', 'inf', 'kmode', 'drvstore', 'devmgr', 'mmc', 'proptabs', 'verifier', 'bthist', 'pairing', 'rollback', 'signed']);
-D('q14', 'quiz', 'Quiz 14', 'Ch. 14 · Performance', 0, ['perf5', 'sysinfo', 'tmtabs', 'systeminfo', 'wmic', 'syspage', 'powermgmt', 'appinfo', 'svcwarn', 'tmdev']);
 D('lx1', 'linux', 'Linux Day 1', 'What is Linux?', 0, ['lx_kernel', 'lx_open', 'lx_benefit', 'lx_draw', 'lx_where', 'lx_distros', 'lx_why']);
 D('lx2', 'linux', 'Linux Day 2', 'Permissions & command line', 0, ['lx_perm', 'lx_rwx', 'lx_chmod', 'lx_chown', 'lx_chgrp', 'lx_etc', 'lx_case', 'cmd_whoami', 'cmd_nano', 'cmd_script', 'cmd_useradd', 'cmd_passwd', 'cmd_groupadd', 'cmd_usermod', 'cmd_id', 'cmd_userdel', 'cmd_groupdel', 'cmd_apt', 'cmd_less', 'cmd_ifconfig', 'cmd_ip_address', 'cmd_ping', 'cmd_traceroute', 'cmd_netstat'], { perms: true, note: 'Lab sheet fixes: /etc/passwd and /etc/group are files, so open them with cat, less or vim (cd won\'t work). Ctrl+C stops ping, q quits less; Ctrl+Z only pauses a program in the background. From the lab: chmod 567 = r-xrw-rwx, Aquaman (rwx/r-x/--x) = 751, Superman (all rwx) = 777.' });
 D('lx3', 'linux', 'Linux Day 3', 'Scripting', 0, ['lx_script', 'lx_shells', 'lx_shell', 'lx_shebang', 'lx_bash', 'lx_cli', 'lx_pipe', 'lx_redir', 'lx_var', 'lx_pos', 'lx_loops', 'lx_if', 'lx_func', 'lx_comment', 'lx_root', 'lx_distro', 'lx_env']);

diff --git a/tests/test_course.js b/tests/test_course.js
@@ -11,12 +11,14 @@ Object.values(C.terms).forEach(t => {
   const name = norm(t.t);
   if (name.length >= 3 && name.split(' ').length <= 3 && !t.id.startsWith('cmd_')) check(!norm(t.d).split(' ').join(' ').includes(name), `${t.id} definition names the item ("${t.t}")`);
 });
+check(!C.unplaced.length, `unit exam items not placed in any chapter: ${C.unplaced}`);
+C.decks.forEach(d => check(d.kind === 'linux' || !d.terms.some(t => t.startsWith('lx_') || t.startsWith('cmd_')), `${d.id}: Linux items must stay in the Linux section`));
 C.decks.forEach(d => {
-  check(d.terms.length >= 4, `${d.id} needs at least 4 items`);
+  check(d.terms.length >= 4 || d.kind === 'chapter', `${d.id} needs at least 4 items`);
   d.terms.forEach(id => check(C.terms[id], `${d.id} refers to missing item ${id}`));
   check(new Set(d.terms).size === d.terms.length, `${d.id} lists an item twice`);
 });
-['ue1', 'ue2', 'ue3', 'ue4', 'q4', 'q5', 'q6', 'q7', 'q8', 'q9', 'q10', 'q11', 'q12', 'q13', 'q14', 'lx1', 'lx2', 'lx3', 'lx25'].forEach(id => check(C.decks.some(d => d.id === id), `missing deck ${id}`));
+[...Array.from({ length: 14 }, (_, i) => 'ch' + (i + 1)), 'lx1', 'lx2', 'lx3', 'lx25'].forEach(id => check(C.decks.some(d => d.id === id), `missing deck ${id}`));
 C.terminal.forEach((r, i) => {
   check(r.length === 4 && r[1].length, `terminal ${i} malformed`);
   [r[2], r[3]].forEach((h, k) => r[1].forEach(a => check(!h.replace(/\s+/g, '').includes(a.replace(/\s+/g, '')) || a.length < 3, `terminal ${i} hint ${k + 1} contains "${a}"`)));

diff --git a/css/style.css b/css/style.css
@@ -486,3 +486,11 @@ kbd { font-size: .72em; border: 1px solid var(--stroke2); border-bottom-width: 2
 .term-out { min-height: 22px; margin-top: 10px; font-size: 14px; }
 .term-out .ok { color: #7fd17f; } .term-out .err { color: #ff8f85; } .term-out .hintline { color: #ffcf6b; }
 @media (max-width: 760px) { .units { grid-template-columns: 1fr; } .coursebanner .cb-go { display: none; } .prompt { font-size: 12px; } }
+.tile-ic.chapter, .cnav-ic.chapter { background: var(--accent); }
+.cnum { font-family: var(--display); font-weight: 700; font-size: 19px; color: var(--on-accent); }
+.cnav-ic .cnum { font-size: 21px; }
+.tchips { display: flex; flex-wrap: wrap; gap: 4px; margin: 3px 0 1px; }
+.onchip { display: inline-block; font-size: 11px; font-weight: 600; padding: 0 7px; border-radius: 9px; background: var(--warn-bg); color: var(--warn); margin-right: 6px; white-space: nowrap; }
+.onchip.unit { background: var(--accent-bg); color: var(--accent); }
+.chtiles { grid-template-columns: repeat(auto-fill, minmax(250px, 1fr)); }
+.tiles + .part-h { margin-top: 20px; }

diff --git a/sw.js b/sw.js
@@ -1,7 +1,7 @@
 /* Tier One service worker: keeps a copy of the site on the device so it works offline.
    Pages and scripts are network-first (so updates show up right away) with the cache as a fallback;
    icons are cache-first. Only this site's own files are handled. */
-const CACHE = 'tier-one-v4';
+const CACHE = 'tier-one-v5';
 const CORE = ['./', 'index.html', 'css/style.css', 'js/data.js', 'js/content-1.js', 'js/content-2.js', 'js/content-3.js', 'js/course.js', 'js/icons.js', 'js/app.js',
   'manifest.webmanifest', 'icon.svg', 'icon-192.png', 'icon-512.png', 'icon-maskable-512.png', 'apple-touch-icon.png'];
 self.addEventListener('install', e => { e.waitUntil(caches.open(CACHE).then(c => c.addAll(CORE)).then(() => self.skipWaiting())); });

diff --git a/index.html b/index.html
@@ -47,6 +47,7 @@
     <button class="tk" id="startbtn" type="button" aria-label="Start: all chapters" aria-expanded="false" aria-controls="start"></button>
     <a class="tk" href="#/" data-nav="home" aria-label="Home"></a>
     <a class="tk" href="#/course" data-nav="course" aria-label="NST 115 exam prep"></a>
+    <a class="tk" href="#/linux" data-nav="linux" aria-label="Linux unit"></a>
     <a class="tk" href="#/review" data-nav="review" aria-label="Review"><span class="badge" id="duebadge" hidden></span></a>
     <a class="tk" href="#/rush" data-nav="rush" aria-label="Run Rush command challenge"></a>
     <a class="tk" href="#/progress" data-nav="progress" aria-label="Career ladder and progress"></a>

diff --git a/tests/test_ui.py b/tests/test_ui.py
@@ -192,16 +192,17 @@ with sync_playwright() as p:
     check(page.locator('.rankcard .idbadge').count() == 1 and 'Trainee' in page.inner_text('.rankcard'), 'home shows the technician ID badge')
     check('belt' not in page.inner_text('body').lower(), 'no leftover belt wording on the home page')
 
-    # NST 115 exam prep tab
+    # NST 115 exam prep tab: chapters only; Linux is its own tab
     page.goto(URL + '#/course')
-    page.wait_for_selector('.unitcard')
-    check(page.locator('.unitcard').count() == 4, 'exam prep shows 4 unit exam cards first')
-    check(page.locator('.tile.deck').count() >= 17, 'quiz and Linux review decks listed')
+    page.wait_for_selector('.chtiles .tile')
+    check(page.locator('.chtiles .tile').count() == 14, 'exam prep lists 14 chapters')
+    check('Linux Day' not in page.inner_text('#app'), 'no Linux decks mixed into the chapter list')
     shot(page, 'course.png')
-    page.goto(URL + '#/course/ue4/sheet')
+    page.goto(URL + '#/course/ch8/sheet')
     page.wait_for_selector('.item')
-    n_items = page.evaluate("COURSE.decks.find(d => d.id === 'ue4').terms.length")
-    check(page.locator('.item').count() == n_items, 'Unit Exam 4 sheet lists every review item')
+    n_items = page.evaluate("COURSE.decks.find(d => d.id === 'ch8').terms.length")
+    check(page.locator('.item').count() == n_items, 'Chapter 8 lists every quiz and unit exam item')
+    check(page.locator('.item .onchip.unit').count() >= 1 and page.locator('.item .onchip:not(.unit)').count() >= 1, 'items show Quiz and Unit Exam badges')
     check(page.locator('.item .ans').first.is_visible(), 'answers visible by default')
     page.check('#recall', force=True)
     check(not page.locator('.item .ans').first.is_visible(), 'Recall mode hides answers')
@@ -210,7 +211,7 @@ with sync_playwright() as p:
     page.locator('.item [data-v="2"]').first.click()
     check(page.locator('.item .on-good').count() == 1, 'Got it marks the item')
     shot(page, 'course-sheet.png')
-    page.goto(URL + '#/course/q11/exam')
+    page.goto(URL + '#/course/ch11/exam')
     page.click('#cgo')
     page.wait_for_selector('.opt')
     qid = page.evaluate("""() => { const q = document.querySelector('.tk-q').textContent; const t = Object.values(COURSE.terms).find(t => t.t === q || t.d === q); return t.id; }""")
@@ -221,7 +222,12 @@ with sync_playwright() as p:
     shot(page, 'course-exam.png')
     page.locator(f'.opt[data-o="{qid}"]').click()
     check(page.locator('.opt.right').count() == 1, 'right pick accepted')
-    page.goto(URL + '#/course/terminal')
+    page.goto(URL + '#/linux')
+    page.wait_for_selector('.tile.deck')
+    check(page.locator('.tile.deck').count() == 6 and 'Chapter' not in page.inner_text('#app'), 'Linux tab has its own 4 lessons and 2 drills')
+    check(page.locator('[data-nav="linux"].on').count() == 1, 'Linux taskbar button is active')
+    shot(page, 'linux.png')
+    page.goto(URL + '#/linux/terminal')
     page.wait_for_selector('#tin')
     task = page.inner_text('.term-task')
     ans = page.evaluate("t => COURSE.terminal.find(r => r[0] === t)[1][0]", task)
@@ -231,7 +237,7 @@ with sync_playwright() as p:
     page.fill('#tin', ans); page.keyboard.press('Enter')
     check('Correct' in page.inner_text('#tout'), 'terminal accepts the exact command')
     shot(page, 'terminal.png')
-    page.goto(URL + '#/course/perms')
+    page.goto(URL + '#/linux/perms')
     page.wait_for_selector('#pin')
     check(page.locator('.term-task code').count() >= 1, 'permissions trainer shows a question')
 

diff --git a/README.md b/README.md
@@ -46,12 +46,14 @@ Every study mode follows one rule: **the site never shows you the right answer.*
 <img src="docs/run.png" alt="Run drill dialog after two hints: 'The switch is a three-letter word meaning everything'" width="720">
 
 ### NST 115 exam prep tab
-A separate tab (graduation-cap icon on the taskbar) built from the NST 115 review sheets and Linux unit materials, with the **unit exams up front**:
-- **Unit Exams 1-4** and **Quizzes 4-14**: every review-sheet item in the instructor's order, answered from the textbook and class materials, and tagged with its source (book chapter, class materials, or general knowledge to check against notes)
+A separate tab (graduation-cap icon on the taskbar) built from the NST 115 review sheets, **organized by chapter only**:
+- **Chapters 1-14**: each chapter combines its quiz review and its part of the unit exam review. Every item is answered from the textbook and class materials, with badges showing which test it's on (**Quiz 8**, **Unit Exam 3**) and a source tag (book chapter, class materials, or general knowledge to check against notes)
 - **Review sheet** with Recall mode (answers hidden until you've said them), **Flash review**, and a **Practice exam** that tells you what a wrong pick actually is but never reveals the right one
-- **Linux unit**: Days 1-3 (what Linux is, permissions, scripting), the top 25 commands, **Terminal drills** (case-sensitive, hints only) and an endless **Permissions trainer** (rwx ⇄ chmod numbers)
 
-<img src="docs/course.png" alt="NST 115 exam prep: four unit exam cards, then quiz reviews" width="720">
+### Linux tab
+The Linux unit has its own tab (penguin icon): Days 1-3 (what Linux is, permissions, scripting), the top 25 commands, **Terminal drills** (case-sensitive, hints only) and an endless **Permissions trainer** (rwx ⇄ chmod numbers).
+
+<img src="docs/course.png" alt="NST 115 exam prep: chapters 1 to 14 with Quiz and Unit Exam badges" width="720">
 
 ### Review, Run Rush and progress
 - **Review** collects due flashcards from every chapter, plus **Reopened tickets**: every question you've missed reopens until you solve it on the first try.
